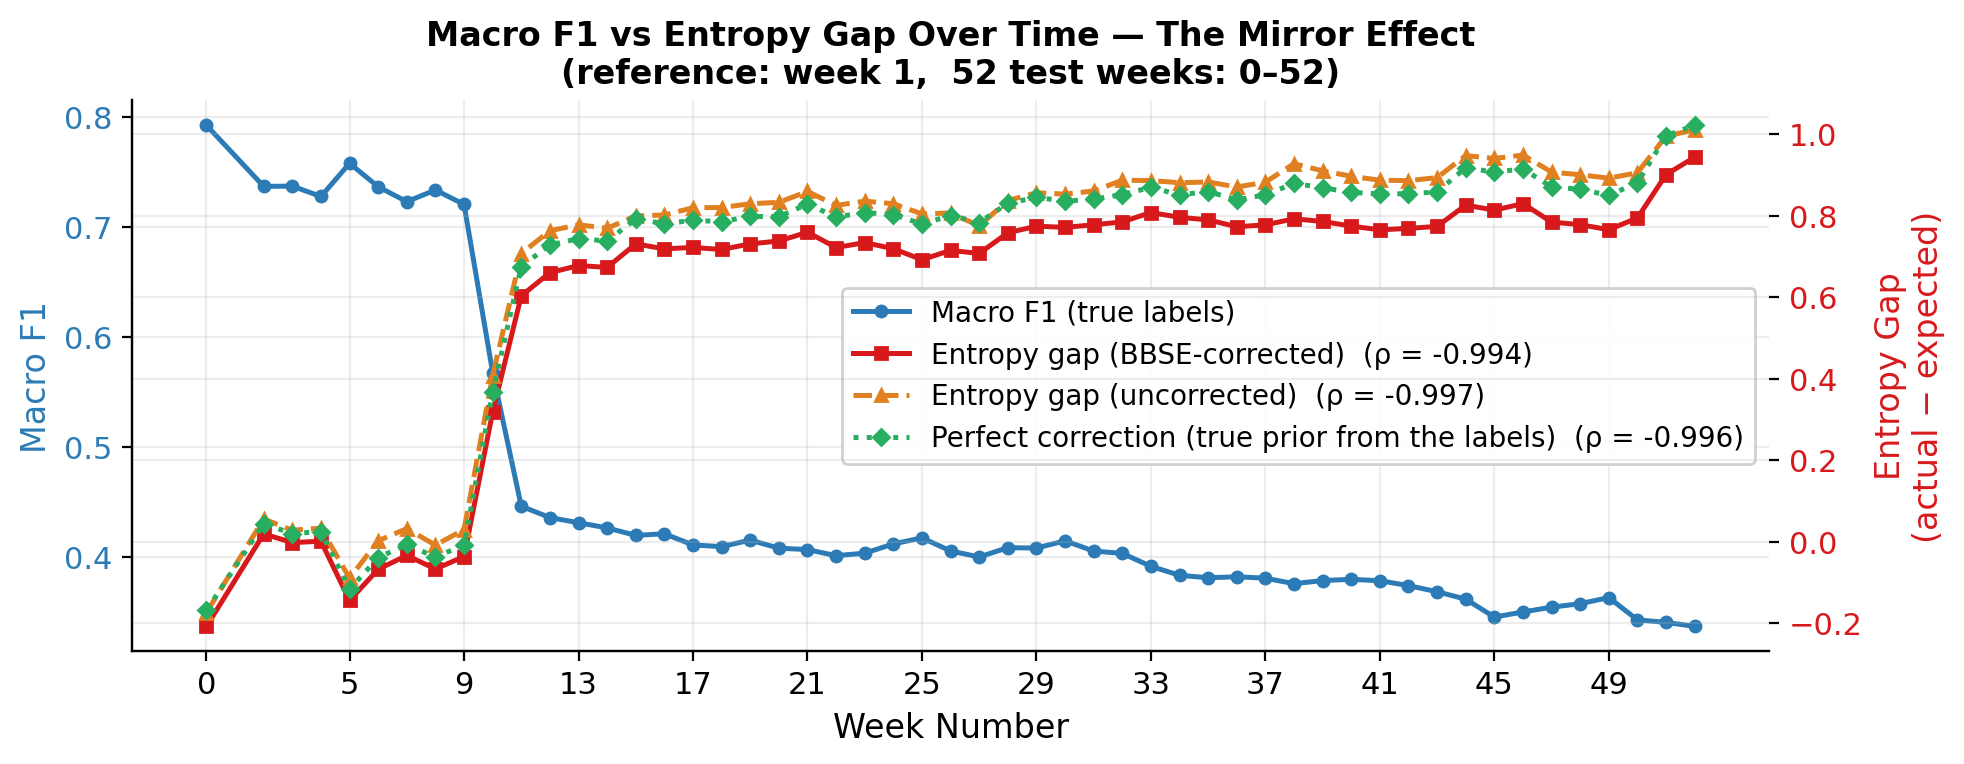
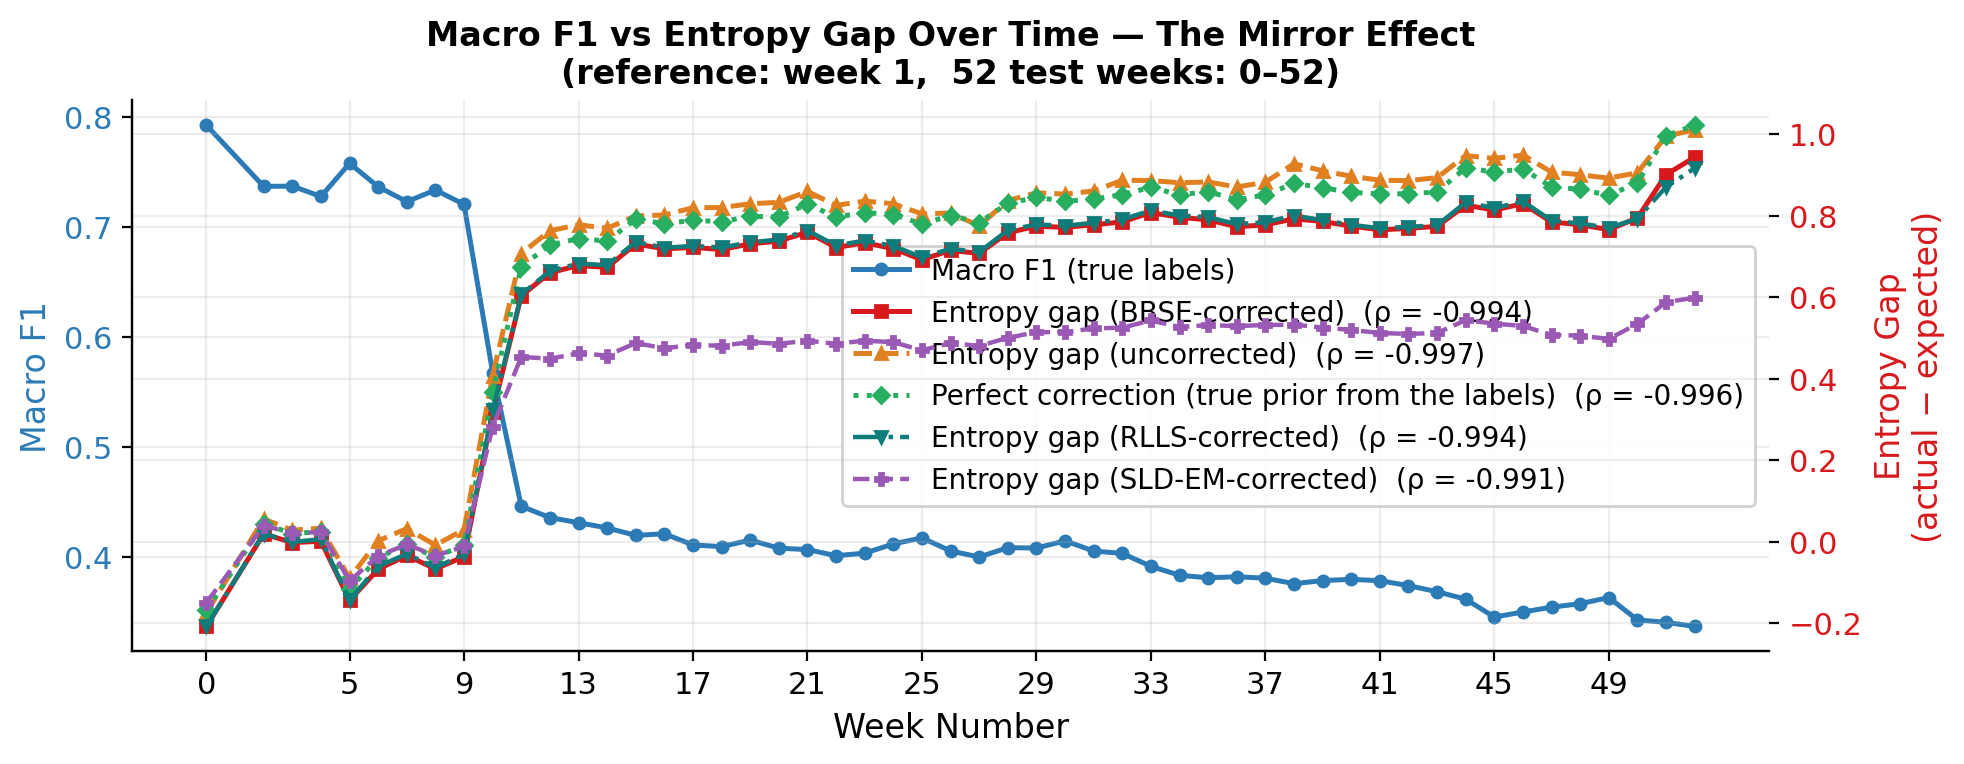
Add week-16 mirror-effect plots (forward-only eval from the healthy regime)
New scripts/viz/plot_mirror_w16_forward.py + SLURM job reproduce the
mirror-effect figure with the WEEK-2022-16 source model; outputs in
figs/ref16/ (full and forward-only variants). Root fig_mirror_effect.png
refreshed.

diff --git a/scripts/viz/plot_mirror_w16_forward.py b/scripts/viz/plot_mirror_w16_forward.py
@@ -1,0 +1,85 @@
+#!/usr/bin/env python
+"""Forward-only Mirror Effect for the Week-16 reference.
+
+Replots Fig B (mirror effect) from the cached per-week metrics of the
+Week-16 source, restricted to weeks AFTER the reference (>= --week_lo),
+matching the paper's forward-tracking convention for the Week-16 regime
+(cf. Figs 1-2, "from Week 16 onward").  Correlations are recomputed on the
+restricted span.  Pure cache -> plot; no npz inference files are touched.
+"""
+
+import argparse
+from pathlib import Path
+
+import numpy as np
+import matplotlib
+matplotlib.use('Agg')
+import matplotlib.pyplot as plt
+from scipy.stats import pearsonr
+
+
+def main():
+    ap = argparse.ArgumentParser()
+    ap.add_argument('--cache', default='results/inference/week_16_inference/'
+                                       'metrics_cache_ref16_grid9.npz')
+    ap.add_argument('--reference_week', type=int, default=16)
+    ap.add_argument('--week_lo', type=int, default=17,
+                    help='first test week to include (forward-only span)')
+    ap.add_argument('--output', default='figs/ref16/fig_mirror_effect_fwd.png')
+    args = ap.parse_args()
+
+    z = np.load(args.cache)
+    wk = z['week_nums']
+    m = wk >= args.week_lo
+    wk = wk[m]
+    f1 = z['macro_f1s'][m]
+
+    tracks = [
+        ('ent_gaps',        'Entropy gap (BBSE-corrected)', '#d7191c', 's', '-'),
+        ('ent_gaps_raw',    'Entropy gap (uncorrected)',    '#e08020', '^', '--'),
+        ('ent_gaps_oracle', 'Perfect correction (true prior from the labels)',
+                                                            '#27ae60', 'D', ':'),
+        ('ent_gaps_reg',    'Entropy gap (RLLS-corrected)', '#0e7c7b', 'v', '-.'),
+        ('ent_gaps_em',     'Entropy gap (SLD-EM-corrected)', '#9b59b6', 'P', '--'),
+    ]
+
+    plt.rcParams.update({'font.family': 'sans-serif', 'font.size': 11,
+                         'axes.grid': True, 'grid.alpha': 0.22,
+                         'axes.spines.top': False, 'axes.spines.right': False})
+    fig, ax_l = plt.subplots(figsize=(10, 4))
+    ax_r = ax_l.twinx()
+    ax_r.spines['top'].set_visible(False)
+    l1, = ax_l.plot(wk, f1, color='#2c7bb6', marker='o', markersize=4,
+                    linewidth=1.8, label='Macro F1 (true labels)')
+    handles = [l1]
+    for key, lab, col, mk, ls in tracks:
+        if key not in z:
+            continue
+        g = z[key][m]
+        rho = pearsonr(f1, g)[0]
+        ln, = ax_r.plot(wk, g, color=col, marker=mk, markersize=4,
+                        linewidth=1.6, linestyle=ls,
+                        label=f'{lab}  (ρ = {rho:.3f})')
+        handles.append(ln)
+        print(f'  {lab:50s} rho = {rho:+.4f}')
+
+    ax_l.set_xlabel('Week Number', fontsize=12)
+    ax_l.set_ylabel('Macro F1', fontsize=12, color='#2c7bb6')
+    ax_r.set_ylabel('Entropy Gap\n(actual − expected)', fontsize=12, color='#d7191c')
+    ax_l.tick_params(axis='y', labelcolor='#2c7bb6')
+    ax_r.tick_params(axis='y', labelcolor='#d7191c')
+    ax_l.set_xticks(wk[::max(1, len(wk) // 12)])
+    ax_l.set_title(
+        'Macro F1 vs Entropy Gap — The Mirror Effect, forward from the Week-16 source\n'
+        f'(reference: week {args.reference_week},  test weeks {wk[0]}–{wk[-1]})',
+        fontsize=12, fontweight='bold')
+    ax_l.legend(handles=handles, fontsize=9, loc='center left', framealpha=0.9)
+    plt.tight_layout()
+    out = Path(args.output)
+    out.parent.mkdir(parents=True, exist_ok=True)
+    fig.savefig(out, dpi=200, bbox_inches='tight')
+    print(f'Saved -> {out}')
+
+
+if __name__ == '__main__':
+    main()